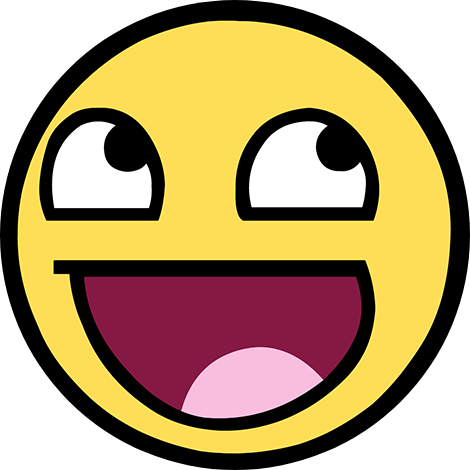
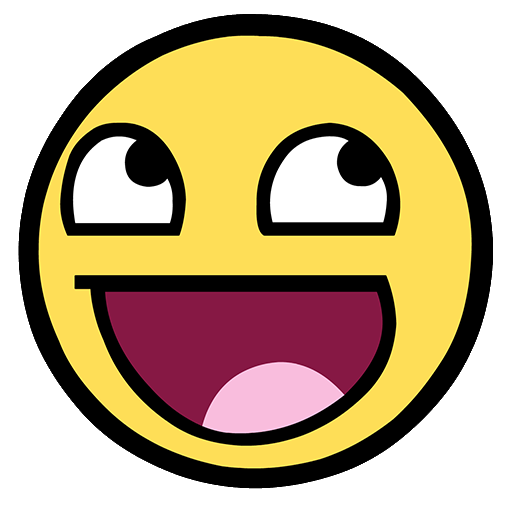
enable blending .. create the collision function to check the collision between the ball and the bricks

diff --git a/game/src/game/game.cpp b/game/src/game/game.cpp
@@ -48,6 +48,28 @@ namespace bko
 		}
 	}
 
+	inline static bool
+	_game_collision_check(const Game_Object& obj1, const Game_Object& obj2)
+	{
+		GLboolean x_collision = (obj1.position.x + obj1.size.x >= obj2.position.x) && (obj2.position.x + obj2.size.x >= obj1.position.x);
+		GLboolean y_collision = (obj1.position.y + obj1.size.y >= obj2.position.y) && (obj2.position.y + obj2.size.y >= obj1.position.y);
+
+		return x_collision && y_collision;
+	}
+
+	inline static void
+	_game_do_collisions(Game& self)
+	{
+		for (Game_Object& brick : self.levels[self.current_level - 1].bricks)
+		{
+			if (!brick.brick.is_destroyed)
+				if (_game_collision_check(self.ball, brick))
+					if (!brick.brick.is_solid)
+						brick.brick.is_destroyed = GL_TRUE;
+		}
+	}
+	
+	
 	// API
 	Game
 	game_new(GLsizei width, GLsizei height)
@@ -199,6 +221,7 @@ namespace bko
 	game_update(Game& self, GLfloat delta_time)
 	{
 		_game_ball_update(self, delta_time);
+		_game_do_collisions(self);
 	}
 
 	inline static void

diff --git a/resource_manager/src/resource_manager/resource_manager.cpp b/resource_manager/src/resource_manager/resource_manager.cpp
@@ -54,7 +54,7 @@ namespace bko
 		Texture texture{};
 
 		if (channels == 4)
-			texture = texture_new(width, height, image, Texture::FORMAT_RGB, Texture::FORMAT_RGBA);
+			texture = texture_new(width, height, image, Texture::FORMAT_RGBA, Texture::FORMAT_RGBA);
 		else
 			texture = texture_new(width, height, image, Texture::FORMAT_RGB, Texture::FORMAT_RGB);
 

diff --git a/game/src/game/window.cpp b/game/src/game/window.cpp
@@ -35,6 +35,11 @@ namespace bko
 		glewInit();
 		glGetError(); // Call it once to catch glewInit() bug, all other errors are now from our application.
 
+
+		glEnable(GL_CULL_FACE);
+		glEnable(GL_BLEND);
+		glBlendFunc(GL_SRC_ALPHA, GL_ONE_MINUS_SRC_ALPHA);
+
 		return self;
 	}
 
